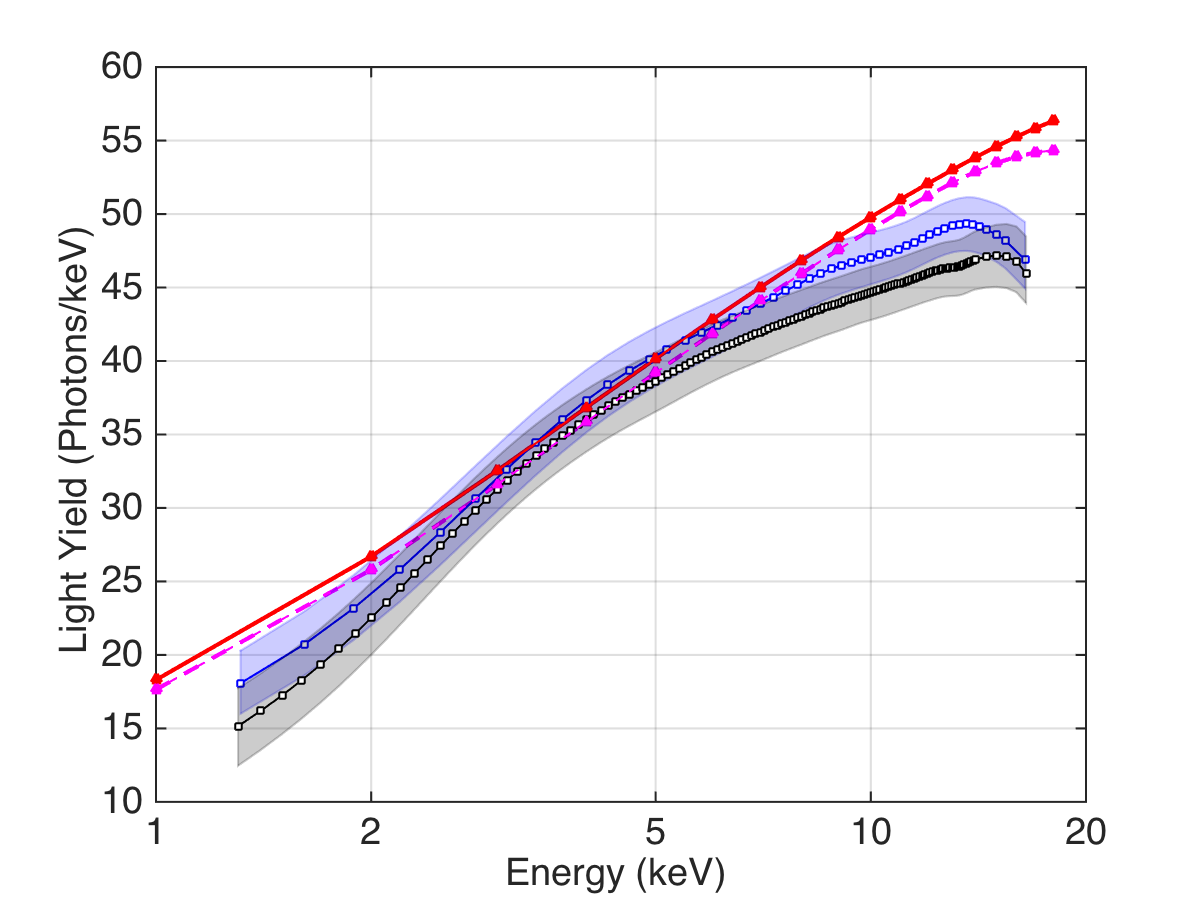
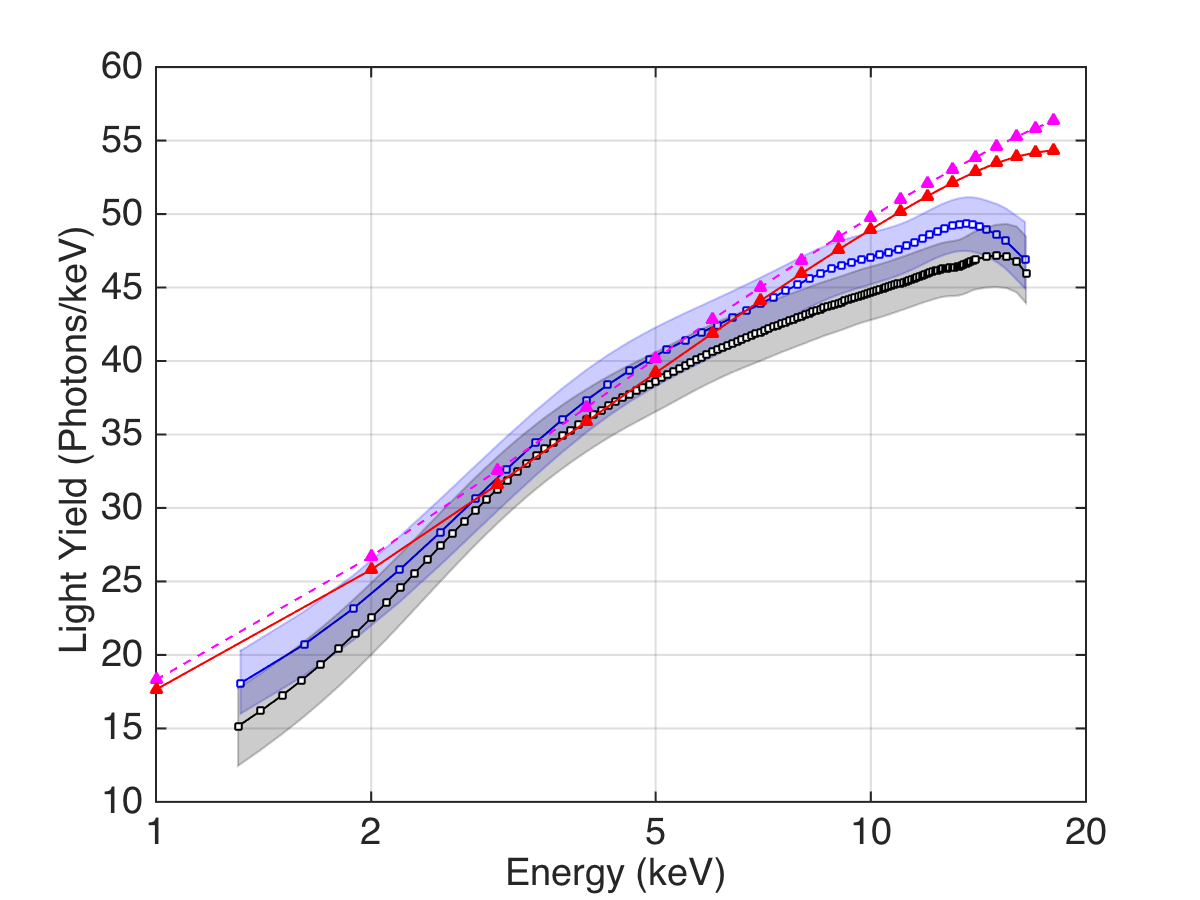
Added p-value, updated color for nest curves on LyQy plots

diff --git a/TritiumSVN/Results.tex b/TritiumSVN/Results.tex
@@ -24,7 +24,7 @@ E_{total} = W \cdot \left(\frac{S1}{g_1} + \frac{S2}{g_2} \right),
 \end{equation}
 
 \noindent
-where S1 and S2 have units of photons detected (phd) and $g_1$ and $g_2$ have units of phd per quantum. $g_1$ is the average light collection efficiency times the average quantum efficiency of the PMT arrays, while $g_2$ is the product of the electron extraction efficiency at the liquid-gas surface and the average single electron size in phd. For the December 2013 tritium dataset presented here, $g_1$ and $g_2$ are measured to be $0.115 \pm 0.005$ phd/photon and $12.1 \pm 0.9$ phd/electron. The constraint was set by allowing g1 and g2 to float and fitting the data to a true tritium spectrum \cite{Drexlin:2013lha}.  In the LUX Run 3 WIMP search, $g_1$ and $g_2$ are measured with line source data and single electron events to be $0.117 \pm 0.003$ phd/photon and $12.05 \pm 0.80$ phd/electron\cite{lux-reanalysis, lux-prd}, consistent with the values adopted here. \fixit{Do we want to mention that with Kr calibrations g1=0.114 and g2=12.0 ?}
+where S1 and S2 have units of photons detected (phd) and $g_1$ and $g_2$ have units of phd per quantum. $g_1$ is the average light collection efficiency times the average quantum efficiency of the PMT arrays, while $g_2$ is the product of the electron extraction efficiency at the liquid-gas surface and the average single electron size in phd. For the December 2013 tritium dataset presented here, $g_1$ and $g_2$ are measured to be $0.115 \pm 0.005$ phd/photon and $12.1 \pm 0.9$ phd/electron. The constraint was set by allowing g1 and g2 to float and fitting the data to a true tritium spectrum \cite{Drexlin:2013lha}.  In the LUX Run 3 WIMP search, $g_1$ and $g_2$ are measured with line source data and single electron events to be $0.117 \pm 0.003$ phd/photon and $12.05 \pm 0.80$ phd/electron\cite{lux-reanalysis, lux-prd}, consistent with the values adopted here. \fixit{Do we want to mention that with Kr calibrations the WS g1 and g2 translate to g1=0.114 and g2=12.0 ?}
 
 \begin{figure}[h!]
 \includegraphics[width=90mm]{fig/tritium_scatter.png}
@@ -36,7 +36,7 @@ where S1 and S2 have units of photons detected (phd) and $g_1$ and $g_2$ have un
 \begin{figure}[h!]
 \begin{center}
 \includegraphics[width=90mm]{fig/tritium-spectrum-linear.png}
-\caption{The tritium energy spectrum measured by LUX with the combined energy model (black) compared to two models: a pure tritium spectrum (dashed blue), and a tritium spectrum convolved with detector resolution  ($\frac{\sigma_E}{W} = \sqrt{\sigma^2(n_{\gamma})+ \sigma^2(n_e)}$.) The reduced $\chi^2$ between data and model =1.35.}
+\caption{The tritium energy spectrum measured by LUX with the combined energy model (black) compared to two models: a pure tritium spectrum (dashed blue), and a tritium spectrum convolved with detector resolution  ($\frac{\sigma_E}{W} = \sqrt{\sigma^2(n_{\gamma})+ \sigma^2(n_e)}$.) The p-value between data and model from 3 to 18 keV is 0.70.}
 \label{fig:tritium-spectrum}
 \end{center}
 \end{figure}
@@ -59,7 +59,7 @@ The mean light and charge yields of ER events in LUX are obtained by dividing th
 \begin{figure}[h!]
 \includegraphics[width=90mm]{fig/ER_LY.png}
 \includegraphics[width=90mm]{fig/ER_QY.png}
-\caption{The light yield (upper plot) and charge yield (lower plot) of tritium ER events in LUX at 180~V/cm (black) and 105~V/cm (blue) compared to NEST v0.98 (2013) \cite{NEST_2013}. The NEST curves are solid red and dashed magenta for 105 and 180 V/cm respectively, with triangle markers spaced every one keV. The bands indicate the systematic errors due to $g_1$ and $g_2$, which are fully anti-correlated between the charge yield and light yield across all energy bins. }
+\caption{The light yield (upper plot) and charge yield (lower plot) of tritium ER events in LUX at 180~V/cm (black) and 105~V/cm (blue) compared to NEST v0.98 (2013) \cite{NEST_2013}. The NEST curves are solid red and dashed magenta for 180 and 105 V/cm respectively, with triangle markers spaced every one keV. The bands indicate the systematic errors due to $g_1$ and $g_2$, which are fully anti-correlated between the charge yield and light yield across all energy bins. }
 \label{fig:ER-LY-QY}
 \end{figure}
 
